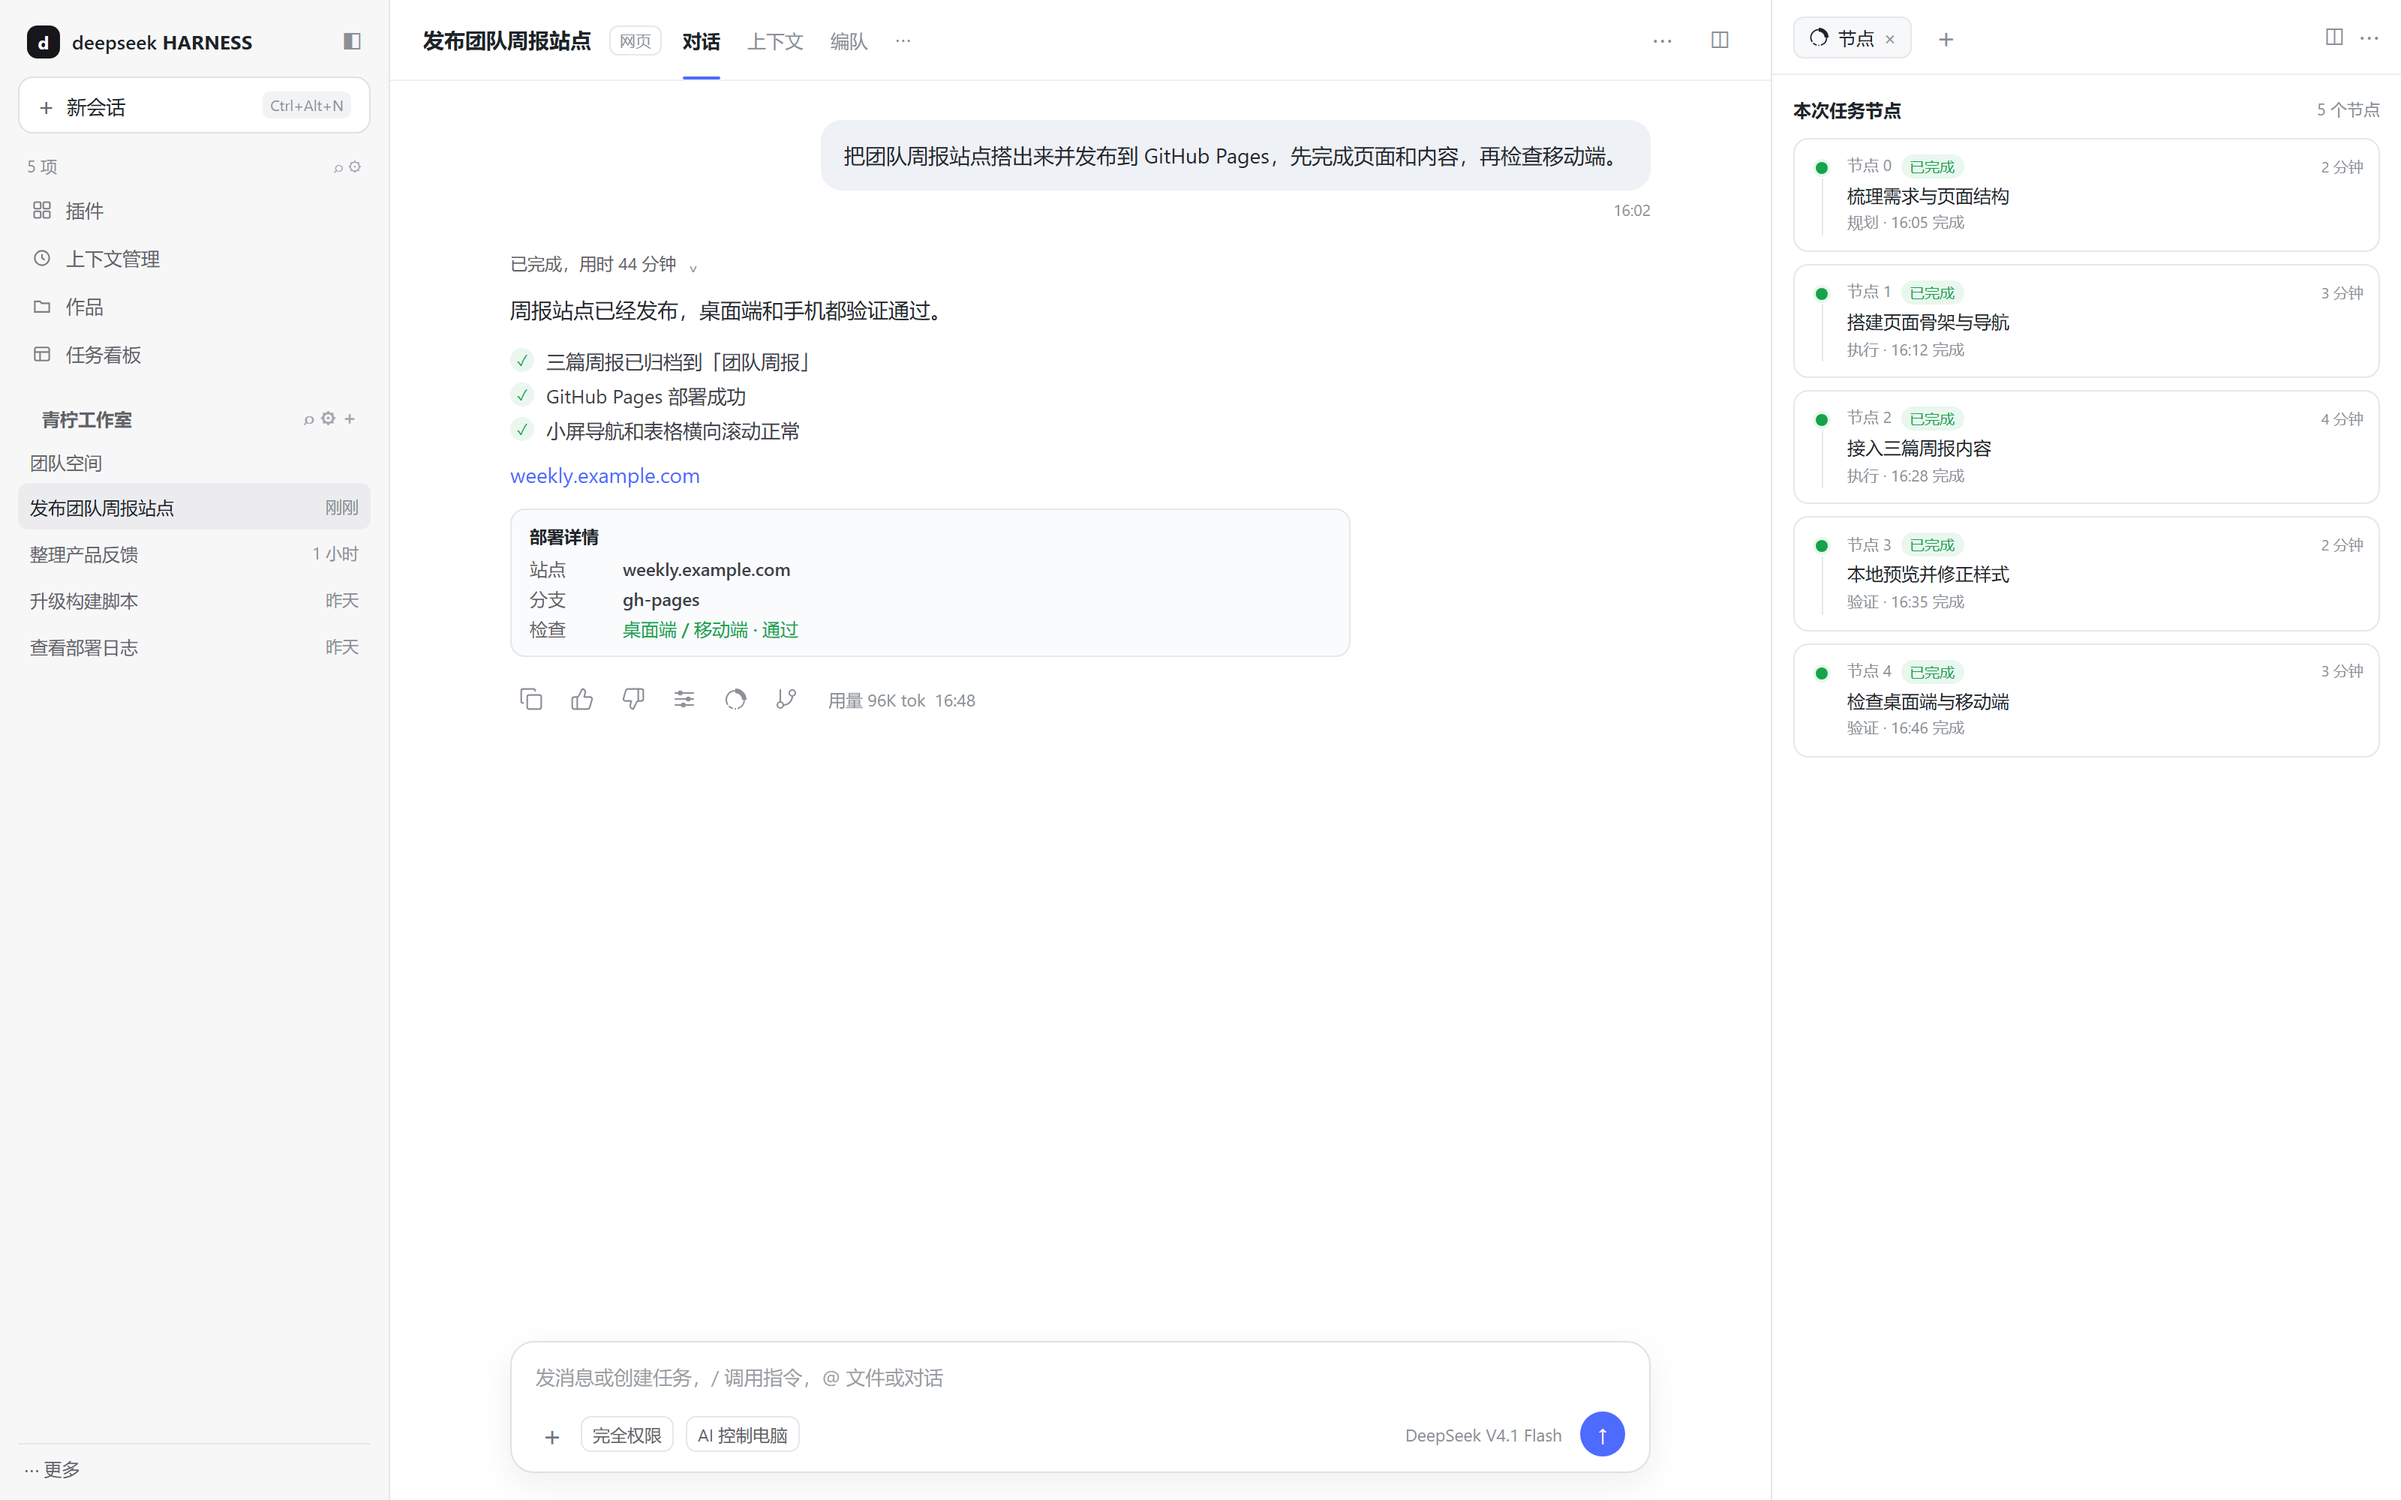
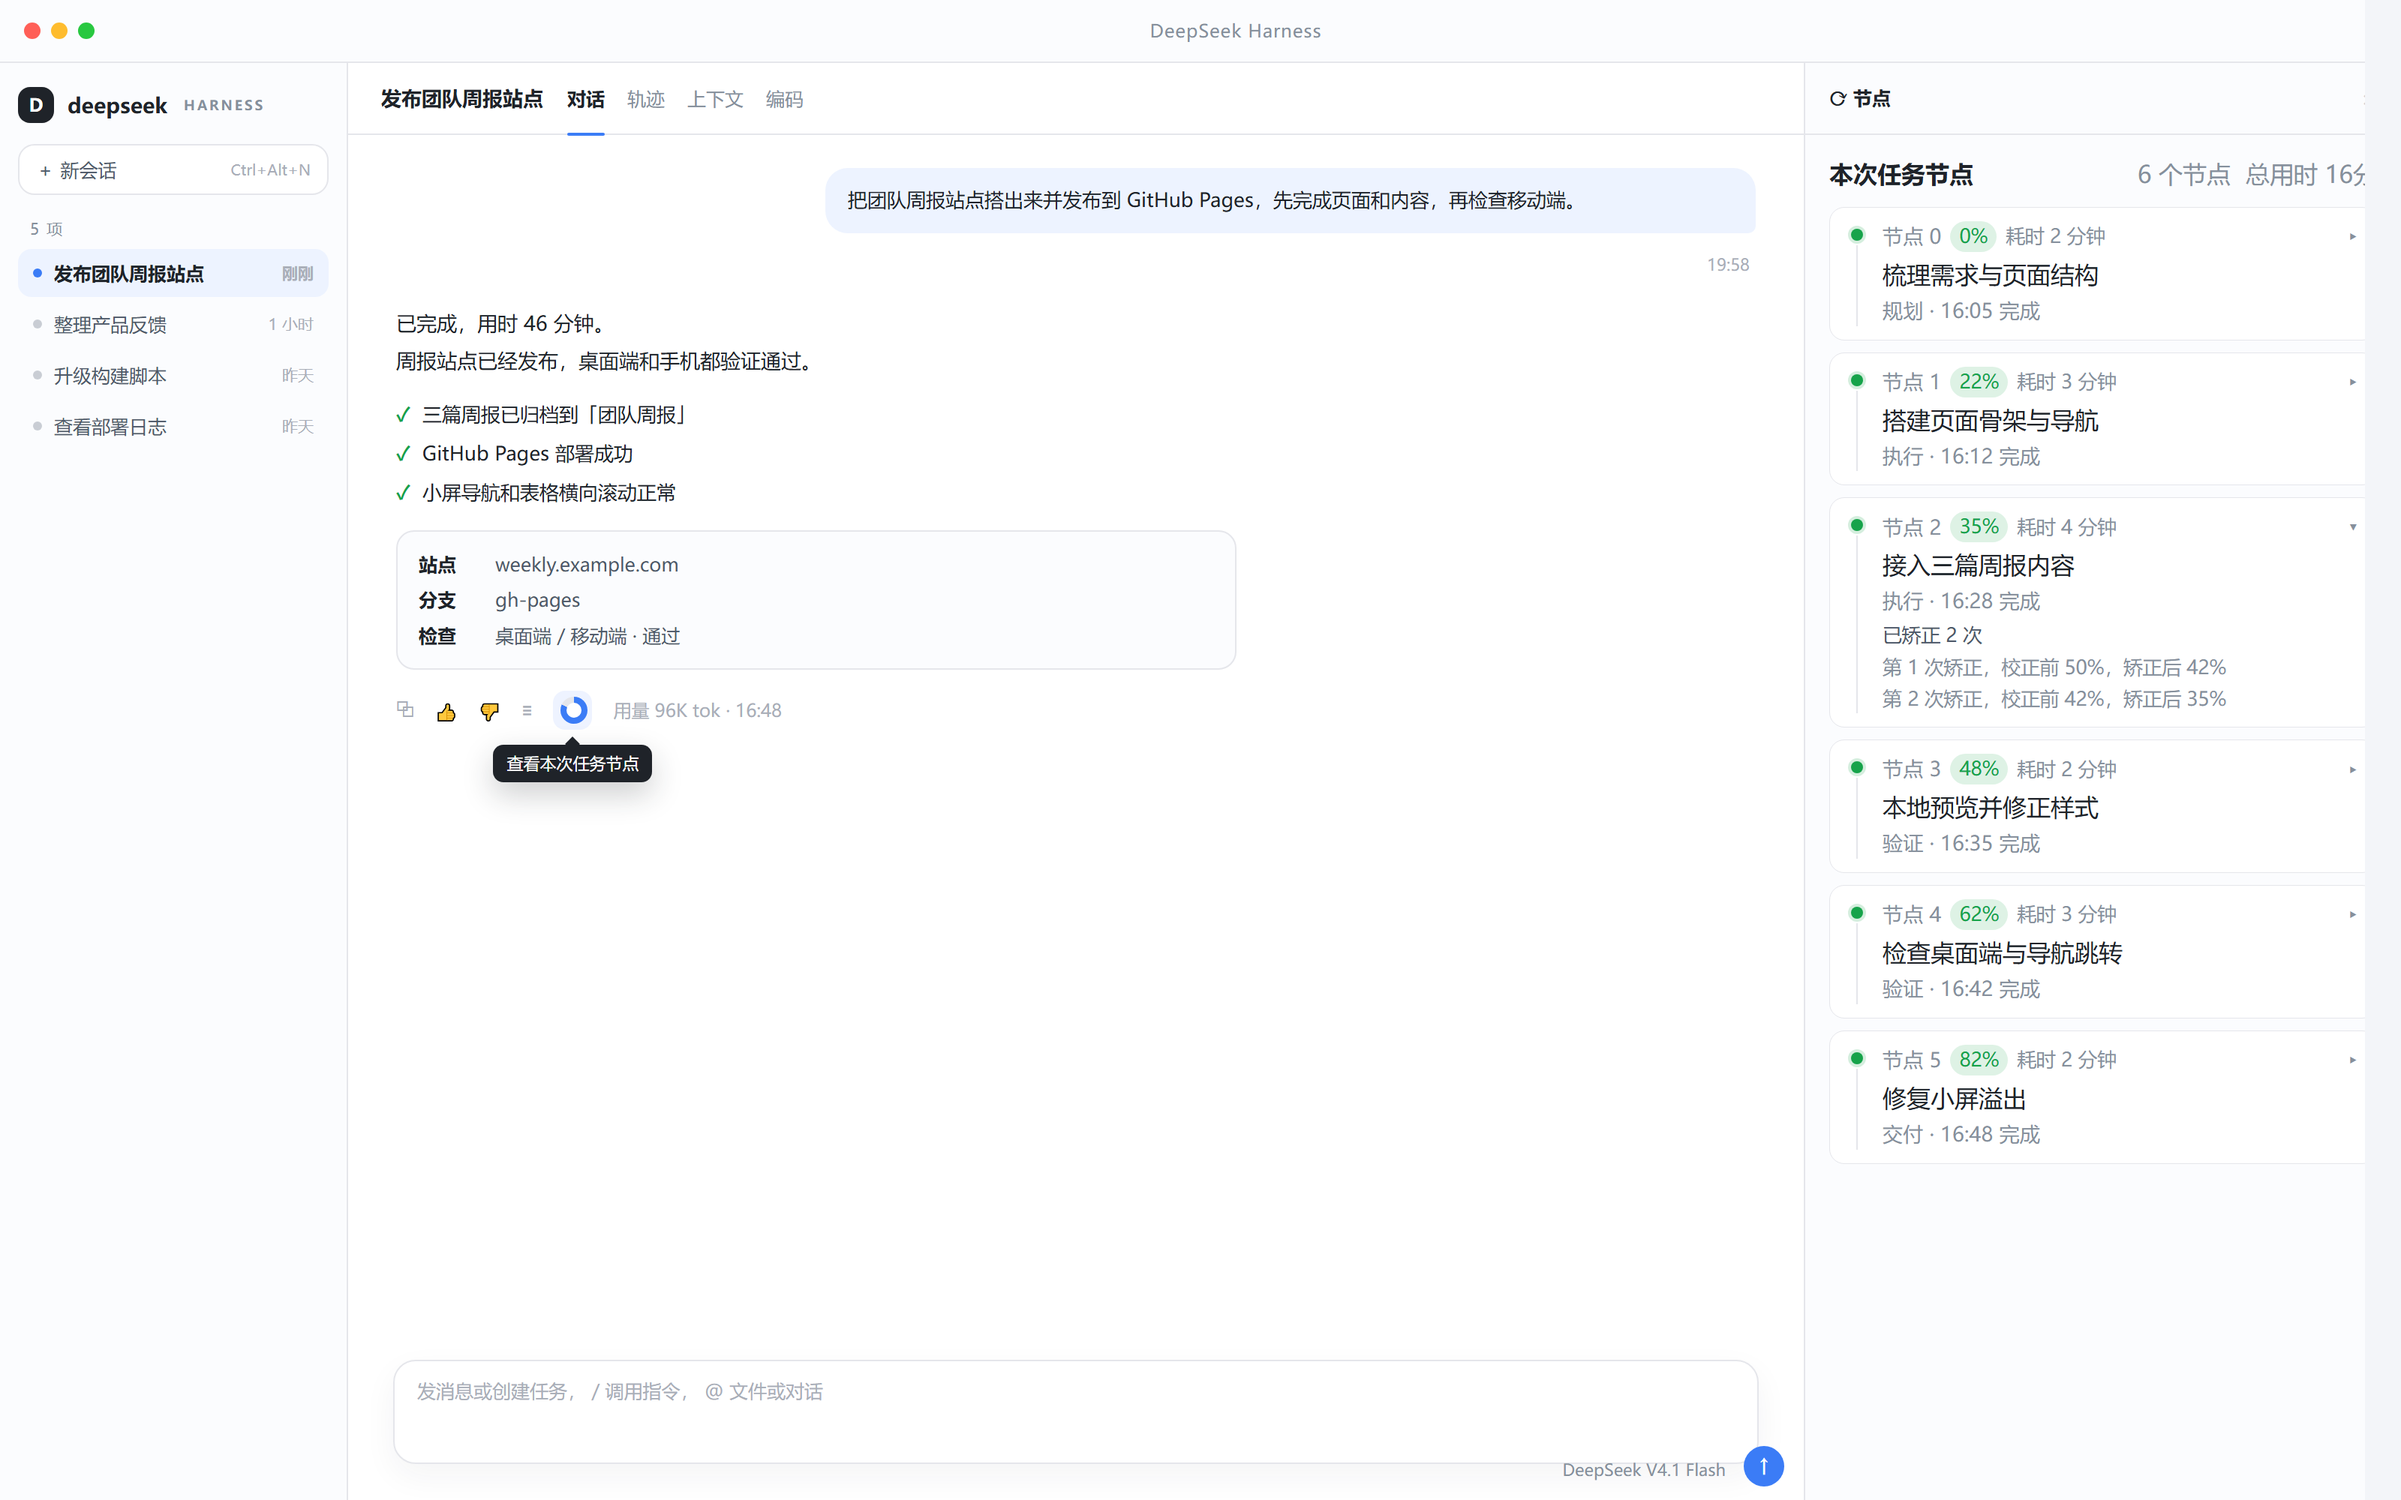
docs(0.8.1): CSS-recreated previews, refreshed npm description
The two docs images are now rendered from HTML/CSS that reuses the plugin's own stylesheet (node rail, hover card, expanded list, sidebar node cards with correction history). The package description covers the current feature set and the README images use raw URLs so npm renders them.

diff --git a/README.en.md b/README.en.md
@@ -12,11 +12,11 @@ Two illustrations of a fictional task (no real conversation content).
 
 **In progress:** several completed nodes and one current node on the bar; hovering a node opens its detail card, and the node list is expanded below.
 
-![In-progress node rail, node card and expanded list](docs/images/scene-progress.png)
+![In-progress node rail, node card and expanded list](https://raw.githubusercontent.com/DeepSlacking/dsh-task-progress/main/docs/images/scene-progress.png)
 
 **Completed:** after the reply is final, the gray node glyph in the reply footer (after the context action, before the branch) opens the Right Sidebar, which lists every node as a card in time order.
 
-![Completed-task footer glyph and right-sidebar node cards](docs/images/scene-completed.png)
+![Completed-task footer glyph and right-sidebar node cards](https://raw.githubusercontent.com/DeepSlacking/dsh-task-progress/main/docs/images/scene-completed.png)
 
 ## Features
 
